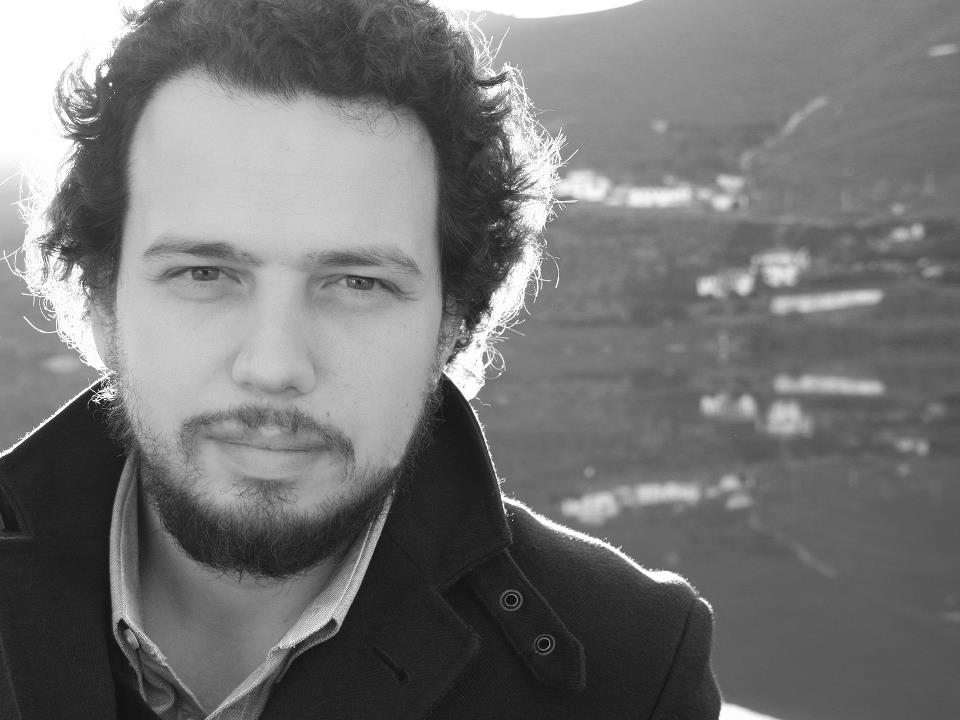
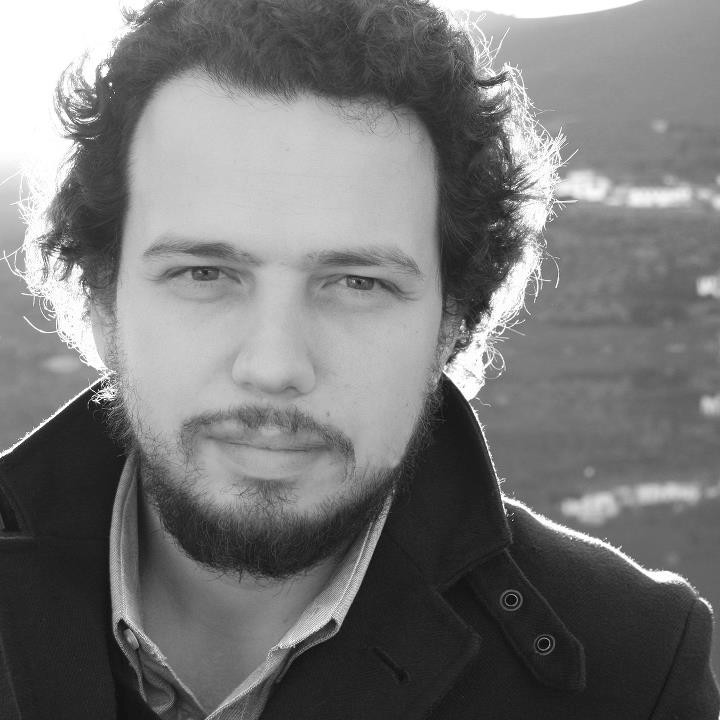
MC: PJ Hagerty

diff --git a/app/_includes/sections/30_speakers.html b/app/_includes/sections/30_speakers.html
@@ -5,7 +5,7 @@
 
   <ul class="Speakers-list">
     {% for speaker in site.data.speakers %}
-      <article class="Speaker">
+      <article class="Speaker Speaker--{{ speaker.modifier }}">
         <div class="Speaker-pictureWrapper">
           <img alt="" class="Speaker-picture" src="/img/speakers/{{ speaker.picture_name }}">
         </div>
@@ -29,17 +29,5 @@
         </div>
       </article>
     {% endfor %}
-
-    <article class="Speaker">
-      <a aria-label="Call for Proposals" target="_blank" href="{{ site.data.rubyconfpt.cfp_url }}">
-        <div class="Speaker-pictureWrapper">
-          <img alt="" class="Speaker-picture" src="/img/sauron.png">
-        </div>
-        <h1 aria-hidden="true" class="Speaker-name">
-          <div class="Speaker-firstName">searching for</div>
-          <div class="Speaker-lastName">more</div>
-        </h1>
-      </a>
-    </article>
   </ul>
 </section>

diff --git a/app/index.html b/app/index.html
@@ -10,7 +10,6 @@ title: RubyConf Portugal 2015
 {% include sponsors.html class="ruby" title="The Ruby Sponsor" titleClass="white" %}
 {% endcomment %}
 {% include sections/30_speakers.html %}
-{% include sections/35_speakers-cta.html %}
 {% include sponsors.html class="platinum" title="Platinum Sponsors" %}
 {% include sections/40_tickets.html %}
 {% include sponsors.html class="gold" title="Gold Sponsors" %}

diff --git a/app/_sass/components/_speaker.sass b/app/_sass/components/_speaker.sass
@@ -18,6 +18,12 @@ $speaker-picture-border-size: 6px
   border: solid $speaker-picture-border-size $color-yellow
   background-color: $color-yellow
 
+.Speaker--mc
+  .Speaker-pictureWrapper
+    border-color: $color-green
+  .Speaker-shortDesc
+    color: $color-green
+
 .Speaker-picture
   width: 100%
   margin: auto

diff --git a/app/_sass/sections/_speakers.sass b/app/_sass/sections/_speakers.sass
@@ -1,5 +1,6 @@
 .Speakers
   background-color: $color-white
+  margin-bottom: 50px
 
 .Speakers-title
   +font-title
